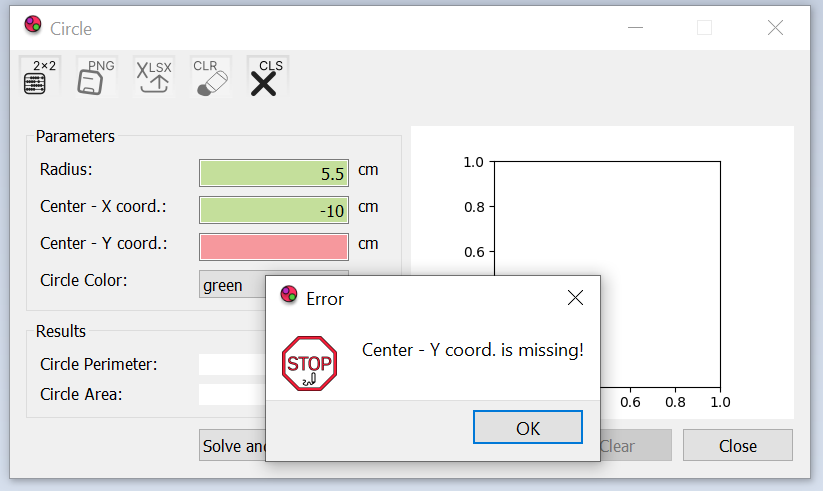
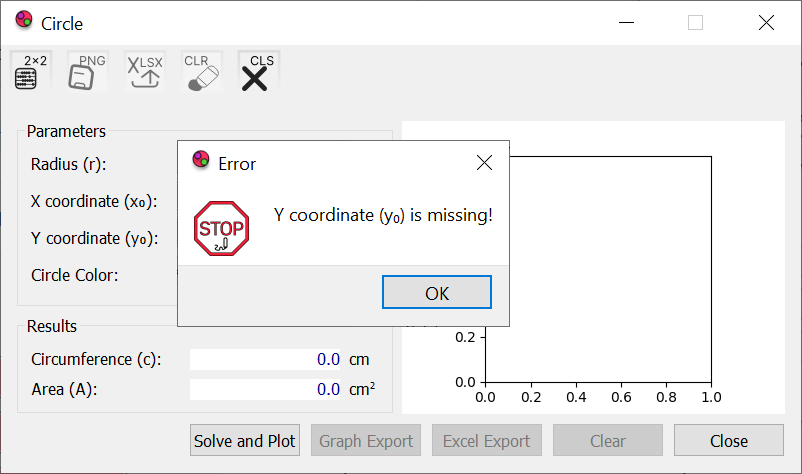
Doc updated, message updated

Changed region(s): [[0.0, 0.0, 1.0, 1.0], [0.4676, 0.2954, 0.4988, 0.3249]]

diff --git a/Circle.py b/Circle.py
@@ -316,12 +316,12 @@ class WindowCircle(QWidget):
             messagebox.exec_()
 
         elif self.edit_centerX.text() in ["", "+", "-"]:
-            messagebox = QMessageBox(QMessageBox.Warning, "Error", "Center - X coord. is missing!", buttons = QMessageBox.Ok, parent=self)
+            messagebox = QMessageBox(QMessageBox.Warning, "Error", "X coordinate (x₀) is missing!", buttons = QMessageBox.Ok, parent=self)
             messagebox.setIconPixmap(QPixmap('stop_writing.png'))
             messagebox.exec_()
 
         elif self.edit_centerY.text() in ["", "+", "-"]:
-            messagebox = QMessageBox(QMessageBox.Warning, "Error", "Center - Y coord. is missing!", buttons = QMessageBox.Ok, parent=self)
+            messagebox = QMessageBox(QMessageBox.Warning, "Error", "Y coordinate (y₀) is missing!", buttons = QMessageBox.Ok, parent=self)
             messagebox.setIconPixmap(QPixmap('stop_writing.png'))
             messagebox.exec_()
 
